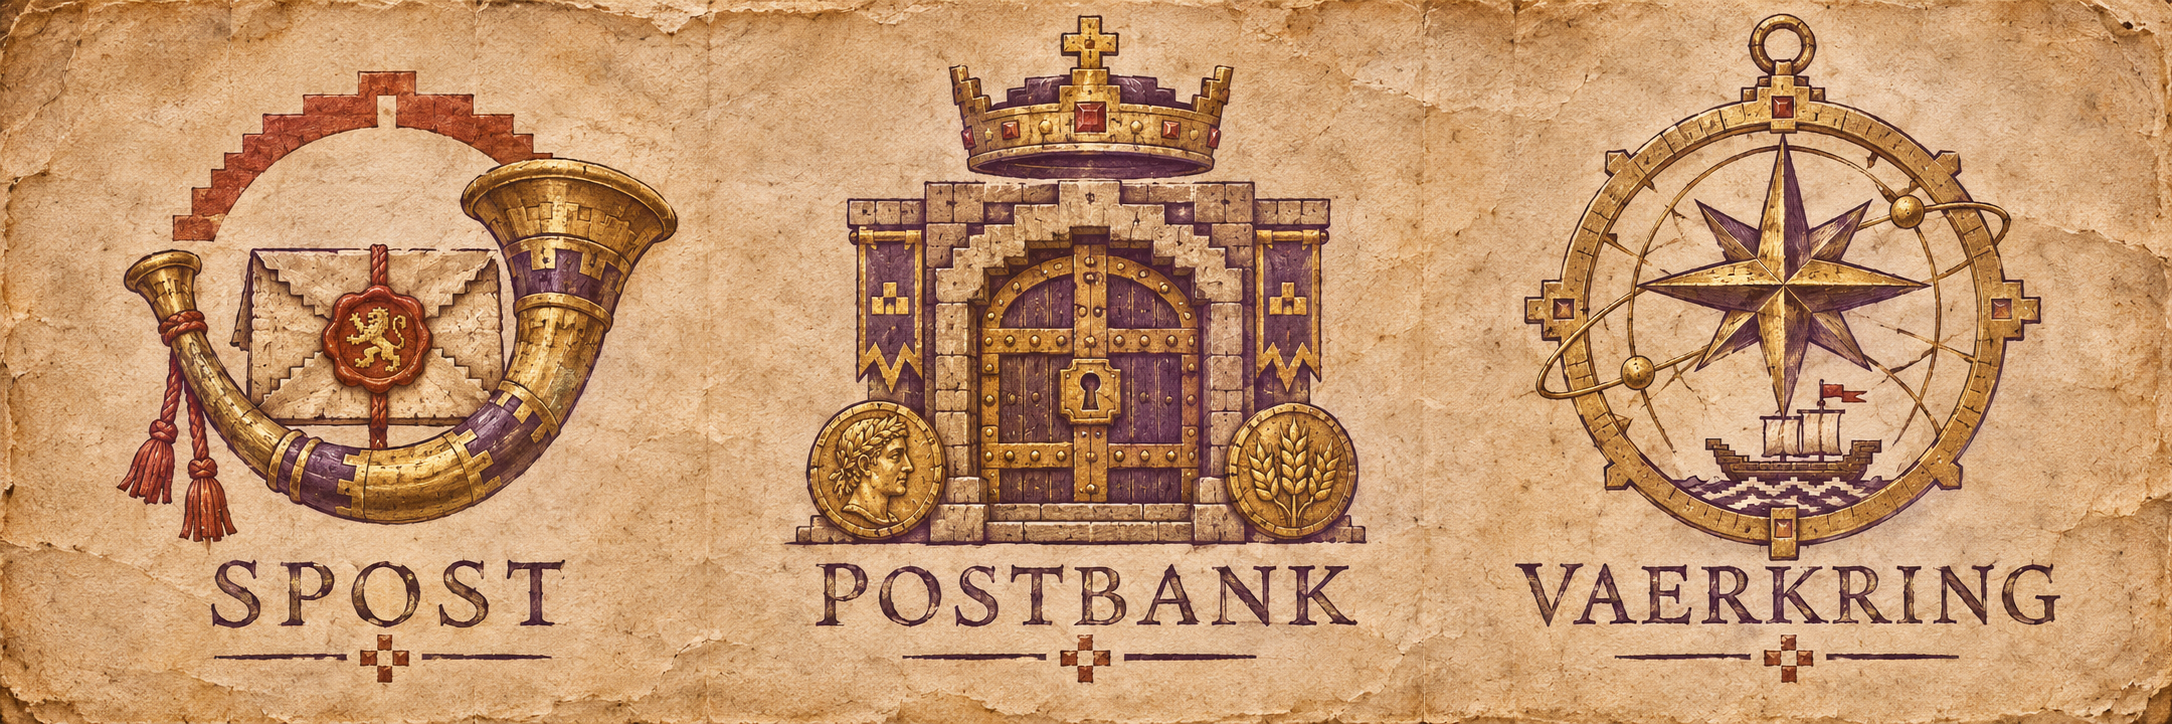
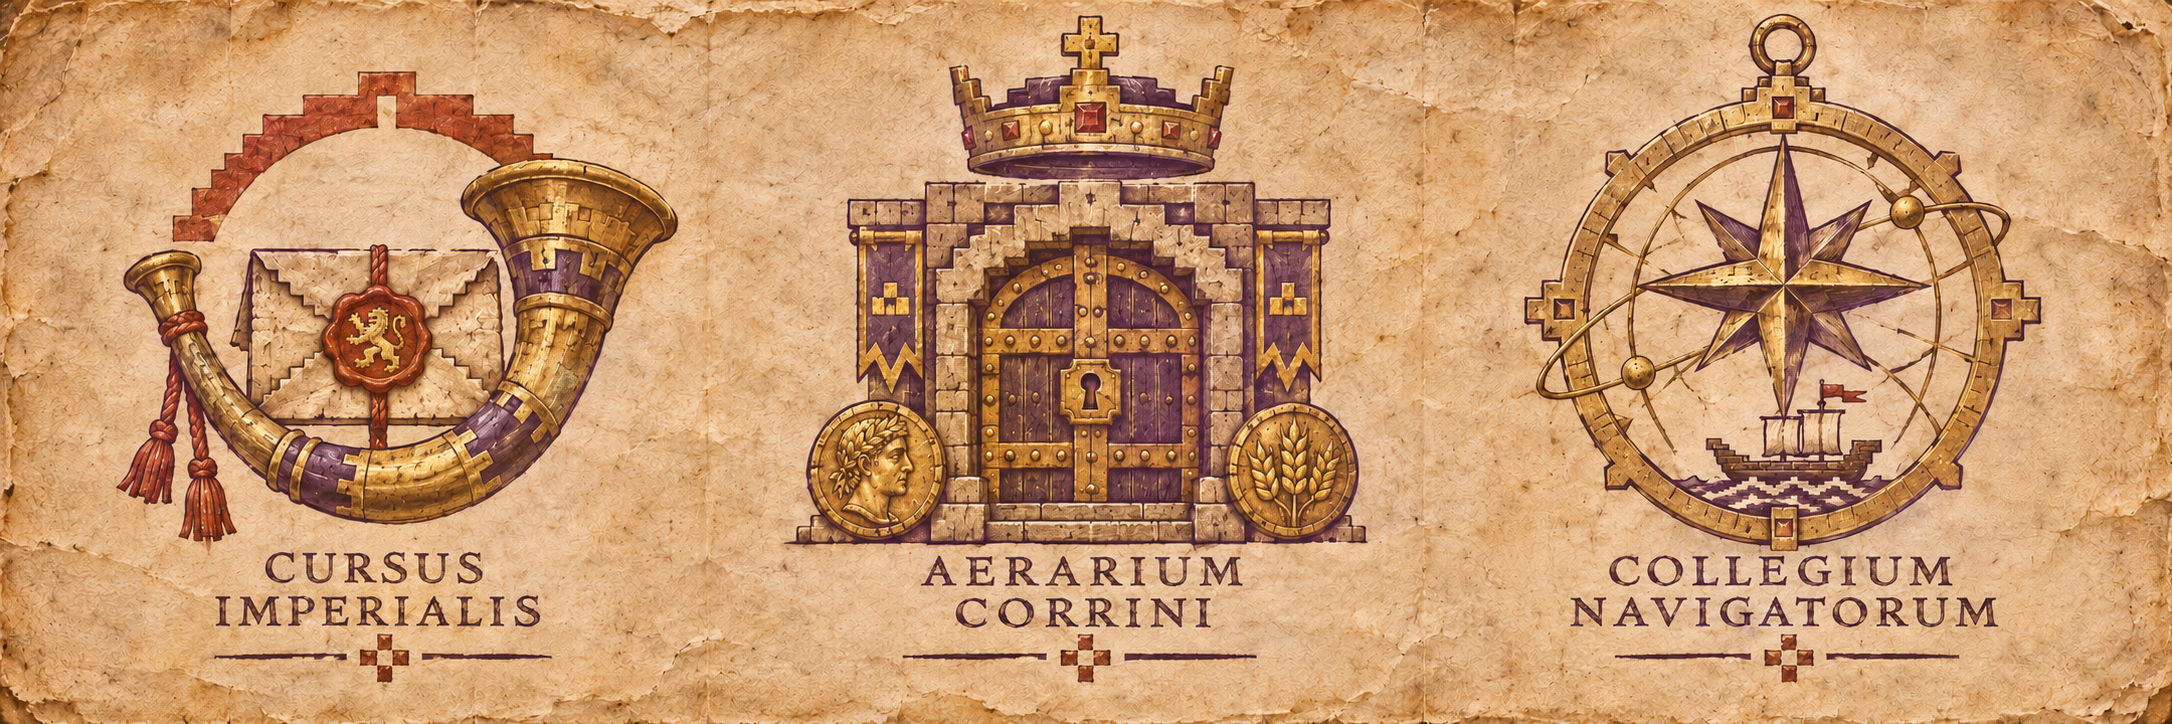
Use historical names for the founding institutions

diff --git a/website/node/public/corrino-group.html b/website/node/public/corrino-group.html
@@ -3,7 +3,7 @@
 <main><section class="hero"><p>CORRINO GROUP · A DUNEREALMS LORE COMPANY</p><h1>Connecting worlds.<br>Keeping promises.</h1><p>Correspondence. Banking. Interstellar travel.<br>Three companies. One Imperial network.</p><a class="button" href="#companies">Meet our companies →</a><div class="orbit" aria-hidden="true"></div></section>
 <section class="intro"><p class="eyebrow">THE IMPERIUM, CONNECTED</p><h2>Postal heritage.<br>Imperial ambition.</h2><p>Across busy spaceports and quiet House courtyards, the Corrino name stands behind the messages and ledgers that keep our fictional Imperium moving.</p></section>
 <section id="companies"><p class="eyebrow">OUR COMPANIES</p><h2>One group. Three connections.</h2><div class="companies"><article id="spicepost"><img class="company-banner" src="https://cp.dunerealms.com/assets/spost-company-v1.png" alt="Spost · Part of Corrino Group"><p class="company-sector">CORRESPONDENCE</p><h2>Spost</h2><p>Every seal has a story.</p><p>Private letters, House correspondence and Imperial dispatches. Our postal company connects the people behind the realm.</p><a href="https://cp.dunerealms.com/#shared-inbox">Open Imperial Mail ↗</a></article><article id="postbank"><img class="company-banner" src="https://cp.dunerealms.com/assets/imperial-postbank-v2.png" alt="Imperial Postbank · Part of Corrino Group"><p class="company-sector">BANKING</p><h2>Imperial Postbank</h2><p>Confidence, entered in the ledger.</p><p>Personal accounts and shared treasuries under one banking identity. Permanent account numbers and clear statements for the realm’s Dunemarks.</p><a href="https://cp.dunerealms.com/#bank-dashboard">Explore the bank ↗</a></article><article id="vaerkring"><img class="company-banner" src="https://cp.dunerealms.com/assets/vaerkring-company-v1.png" alt="Vaerkring · Part of Corrino Group"><p class="company-sector">INTERSTELLAR TRAVEL</p><h2>Vaerkring</h2><p>The distance between worlds, connected.</p><p>The Routekeepers chart the crossings of our fictional Imperium. From departure halls to distant ports, Vaerkring is the group’s interstellar travel company.</p><a href="/manual.html">Explore the travel guide ↗</a></article></div></section>
-<section id="heritage" class="heritage"><p class="eyebrow">THE IMPERIAL ARCHIVE · DUNEREALMS LORE</p><h2>Three millennia.<br>One enduring charter.</h2><div class="founder"><div class="founder-art"><figure><img src="https://cp.dunerealms.com/assets/corrino-founder-v1.png" alt="Minecraft-style portrait of Shaddam Corrino IV wearing the purple and gold Imperial sash"><figcaption>Shaddam Corrino IV · Padishah Emperor<br>Founding patron in the DuneRealms chronicle</figcaption></figure><figure><img src="https://cp.dunerealms.com/assets/corrino-charter-v1.png" alt="The Imperial Charter, issued in 10,191 A.G., signed Shaddam Corrino IV, Imperator, with a crimson lion wax seal"><figcaption>The founding charter · 10,191 A.G.</figcaption></figure></div><div><p class="eyebrow">THE FOUNDER</p><h3>Shaddam Corrino IV</h3><p>Before Corrino became a name above a post office or a treasury door, it was a name carried beneath the Golden Lion. Our chronicle begins during the reign of Shaddam Corrino IV: an Emperor who understood that a distant province could be lost through a missing dispatch as surely as through a defeated army.</p><p>In the founding charter of our tale, he brought couriers, trusted keepers of coin and navigators under one imperial compact. A message must arrive. A deposit must be accounted for. A route must remain open. The three promises became the inheritance of Corrino Group.</p><p>Three thousand years later, the throne has changed hands, borders have shifted and old palaces have become dust. The charter remains. Each reigning Emperor takes the ceremonial chair of the group; the ledgers and daily service remain in the hands of its appointed custodians.</p><small>This is an original DuneRealms alternate-history chronicle inspired by Dune (1992). The companies, charter and later chronology are invented for our setting.</small></div></div><figure class="founding-marks"><img src="https://cp.dunerealms.com/assets/corrino-founding-marks-v1.png" alt="Ancient founding emblems: Spost courier horn, Postbank crowned vault and Vaerkring astrolabe"><figcaption>The original charter marks · preserved in the Imperial Archive</figcaption></figure><div class="history-grid"><article><p class="eyebrow">SPOST · THE FIRST PROMISE</p><h3>Neither distance nor silence.</h3><p>The first imperial couriers travelled with sealed cylinders beneath their cloaks, carrying orders between palace outposts and the spice ports. Their red route-mark meant that a dispatch had entered the protection of the charter.</p><p>During the scattered centuries, local postmasters kept the network alive even when their rulers ceased to speak. Letters crossed borders that armies could not. The old long-form name, SpicePost, eventually gave way to the familiar Spost. Its sweeping red arch remembers the promise of a route completed.</p></article><article><p class="eyebrow">IMPERIAL POSTBANK · THE SECOND PROMISE</p><h3>A ledger outlasts a throne.</h3><p>Beside the earliest courier stations stood locked chests where traders could leave coin rather than carry it through hostile country. Receipts bearing the imperial mark became the ancestors of the Postbank account.</p><p>Over millennia, the chests became vaults and the receipts became numbered ledgers. The bank survived succession crises by remembering what belonged to whom. Its crown recalls the founding charter; its postal horn remembers the humble station where a travelling merchant first entrusted it with a purse.</p></article><article><p class="eyebrow">VAERKRING · THE THIRD PROMISE</p><h3>The way between worlds.</h3><p>The navigators of the charter inherited routes older than the compact itself. Under the name Vaerkring, the Routekeepers recorded safe passages, maintained departure halls and carried people and cargo between the scattered lights of the Imperium.</p><p>When the long years made familiar constellations foreign, their charts held the network together. The compass and orbit in their emblem honour that duty: every world is distant until someone keeps the way open. Today, Vaerkring carries the travel tradition of the group into the next imperial age.</p></article></div></section>
+<section id="heritage" class="heritage"><p class="eyebrow">THE IMPERIAL ARCHIVE · DUNEREALMS LORE</p><h2>Three millennia.<br>One enduring charter.</h2><div class="founder"><div class="founder-art"><figure><img src="https://cp.dunerealms.com/assets/corrino-founder-v1.png" alt="Minecraft-style portrait of Shaddam Corrino IV wearing the purple and gold Imperial sash"><figcaption>Shaddam Corrino IV · Padishah Emperor<br>Founding patron in the DuneRealms chronicle</figcaption></figure><figure><img src="https://cp.dunerealms.com/assets/corrino-charter-v1.png" alt="The Imperial Charter, issued in 10,191 A.G., signed Shaddam Corrino IV, Imperator, with a crimson lion wax seal"><figcaption>The founding charter · 10,191 A.G.</figcaption></figure></div><div><p class="eyebrow">THE FOUNDER</p><h3>Shaddam Corrino IV</h3><p>Before Corrino became a name above a post office or a treasury door, it was a name carried beneath the Golden Lion. Our chronicle begins during the reign of Shaddam Corrino IV: an Emperor who understood that a distant province could be lost through a missing dispatch as surely as through a defeated army.</p><p>In the founding charter of our tale, he brought couriers, trusted keepers of coin and navigators under one imperial compact. A message must arrive. A deposit must be accounted for. A route must remain open. The three promises became the inheritance of Corrino Group.</p><p>Three thousand years later, the throne has changed hands, borders have shifted and old palaces have become dust. The charter remains. Each reigning Emperor takes the ceremonial chair of the group; the ledgers and daily service remain in the hands of its appointed custodians.</p><small>This is an original DuneRealms alternate-history chronicle inspired by Dune (1992). The companies, charter and later chronology are invented for our setting.</small></div></div><figure class="founding-marks"><img src="https://cp.dunerealms.com/assets/corrino-founding-marks-v1.png" alt="Ancient founding emblems: Cursus Imperialis, Aerarium Corrini and Collegium Navigatorum"><figcaption>Cursus Imperialis · Aerarium Corrini · Collegium Navigatorum — the founding institutions</figcaption></figure><div class="history-grid"><article><p class="eyebrow">SPOST · THE FIRST PROMISE</p><h3>Neither distance nor silence.</h3><p>Founded as the Cursus Imperialis, the first imperial couriers travelled with sealed cylinders beneath their cloaks, carrying orders between palace outposts and the spice ports. Their red route-mark meant that a dispatch had entered the protection of the charter.</p><p>During the scattered centuries, local postmasters kept the network alive even when their rulers ceased to speak. Letters crossed borders that armies could not. The old long-form name, SpicePost, eventually gave way to the familiar Spost. Its sweeping red arch remembers the promise of a route completed.</p></article><article><p class="eyebrow">IMPERIAL POSTBANK · THE SECOND PROMISE</p><h3>A ledger outlasts a throne.</h3><p>The Aerarium Corrini began beside the earliest courier stations, where there stood locked chests where traders could leave coin rather than carry it through hostile country. Receipts bearing the imperial mark became the ancestors of the Postbank account.</p><p>Over millennia, the chests became vaults and the receipts became numbered ledgers. The bank survived succession crises by remembering what belonged to whom. Its crown recalls the founding charter; its postal horn remembers the humble station where a travelling merchant first entrusted it with a purse.</p></article><article><p class="eyebrow">VAERKRING · THE THIRD PROMISE</p><h3>The way between worlds.</h3><p>The Collegium Navigatorum, the charter’s fellowship of navigators, inherited routes older than the compact itself. Under the name Vaerkring, the Routekeepers recorded safe passages, maintained departure halls and carried people and cargo between the scattered lights of the Imperium.</p><p>When the long years made familiar constellations foreign, their charts held the network together. The compass and orbit in their emblem honour that duty: every world is distant until someone keeps the way open. Today, Vaerkring carries the travel tradition of the group into the next imperial age.</p></article></div></section>
 <section class="leadership" id="leadership"><div><p class="eyebrow">GROUP LEADERSHIP · LORE</p><h2>The crown chairs<br>the board.</h2></div><div><h3>Chief Executive Officer</h3><p>The reigning Emperor</p><p class="placeholder">Officeholder display · connection pending</p><p>A ceremonial role in this story. Being Emperor grants no loan approval, payout or bank-management permissions.</p></div></section>
 <section class="market" id="market"><div><p class="eyebrow">FICTIONAL MARKET · LORE ONLY</p><h2>Corrino Group Index</h2><p>A little confidence. A little turbulence.<br>Always another shipment on the horizon.</p><strong id="quote">128.40 CRX</strong><p id="change">Illustrative index · not a currency</p><div class="ranges" aria-label="Illustrative chart period"><button data-range="day" aria-pressed="true">1D</button><button data-range="week" aria-pressed="false">1W</button><button data-range="month" aria-pressed="false">1M</button></div></div><figure><svg id="stock" viewBox="0 0 640 240" role="img" aria-label="Fictional Corrino index fluctuating up and down"><path class="grid" d="M0 40H640M0 100H640M0 160H640M0 220H640"/><path id="stock-area"/><path id="stock-line"/></svg><figcaption>Invented demonstration data. No trading, investments or effect on any Dunemarks balance.</figcaption></figure></section>
 </main><footer><a class="brand" href="/corrino-group.html"><img class="house-sigil" src="/assets/faction-corrino.svg" alt="House Korenholt lion sigil"><span>corrino<small>GROUP</small></span></a><p>Spost · Imperial Postbank · Vaerkring</p><p>Fictional DuneRealms corporate lore. No real-world company affiliation.</p></footer></body></html>
